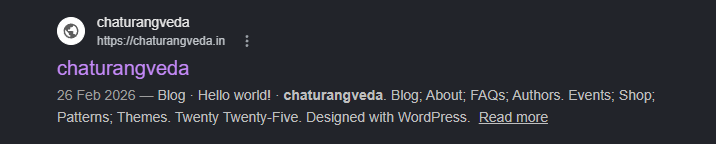
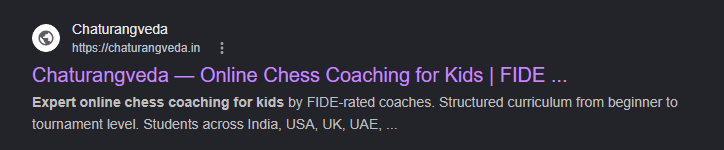
better google searches

diff --git a/chessv3.0/src/app/layout.tsx b/chessv3.0/src/app/layout.tsx
@@ -1,6 +1,7 @@
 import type { Metadata } from "next";
 import { Inter, Playfair_Display, Fraunces, JetBrains_Mono } from "next/font/google";
 import { SpeedInsights } from "@vercel/speed-insights/next";
+import OrganizationSchema from "@/components/OrganizationSchema";
 import "./globals.css";
 
 const SITE_URL = process.env.NEXT_PUBLIC_SITE_URL || 'https://chaturangveda.in';
@@ -68,9 +69,10 @@ export const metadata: Metadata = {
   icons: {
     icon: [
       { url: '/favicon.svg', type: 'image/svg+xml' },
-      { url: '/chaturangveda_logo.png', type: 'image/png' },
+      { url: '/favicon.ico', sizes: 'any' },
     ],
-    apple: '/chaturangveda_logo.png',
+    apple: { url: '/chaturangveda_logo.png', type: 'image/png' },
+    shortcut: '/favicon.svg',
   },
   alternates: {
     canonical: SITE_URL,
@@ -129,6 +131,9 @@ export default function RootLayout({
 }>) {
   return (
     <html lang="en" className={`${inter.variable} ${playfair.variable} ${fraunces.variable} ${jetbrainsMono.variable}`}>
+      <head>
+        <OrganizationSchema />
+      </head>
       <body>
         {children}
         <SpeedInsights />

diff --git a/chessv3.0/src/app/curriculum/page.module.css b/chessv3.0/src/app/curriculum/page.module.css
@@ -107,6 +107,8 @@
   overflow: hidden;
   box-shadow: var(--shadow-sm);
   transition: box-shadow 0.3s ease, transform 0.3s ease;
+  display: flex;
+  flex-direction: column;
 }
 
 .levelCard:hover {
@@ -334,7 +336,7 @@
 
 /* ─── Price Placeholder ─── */
 .pricePlaceholder {
-  margin-top: 16px;
+  margin-top: auto;
   padding: 14px 16px;
   background: var(--surface-container);
   border-radius: var(--border-radius-sm);
@@ -397,8 +399,11 @@
 }
 
 .enrollBtn {
+  display: flex;
+  align-items: center;
+  justify-content: center;
   width: 100%;
-  margin-top: 16px;
+  margin-top: 12px;
   padding: 13px 20px;
   background: var(--gradient-primary);
   color: #fff;
@@ -410,6 +415,7 @@
   cursor: pointer;
   transition: opacity var(--transition-fast), transform var(--transition-fast);
   letter-spacing: 0.02em;
+  text-decoration: none;
 }
 
 .enrollBtn:hover {

diff --git a/chessv3.0/src/components/OrganizationSchema.tsx b/chessv3.0/src/components/OrganizationSchema.tsx
@@ -1,0 +1,19 @@
+const SITE_URL = process.env.NEXT_PUBLIC_SITE_URL || 'https://chaturangveda.in';
+
+const schema = JSON.stringify({
+  '@context': 'https://schema.org',
+  '@type': 'Organization',
+  name: 'Chaturangveda',
+  url: SITE_URL,
+  logo: `${SITE_URL}/logo.png`,
+  sameAs: ['https://wa.me/917569194709'],
+});
+
+export default function OrganizationSchema() {
+  return (
+    <script
+      type="application/ld+json"
+      dangerouslySetInnerHTML={{ __html: schema }}
+    />
+  );
+}
